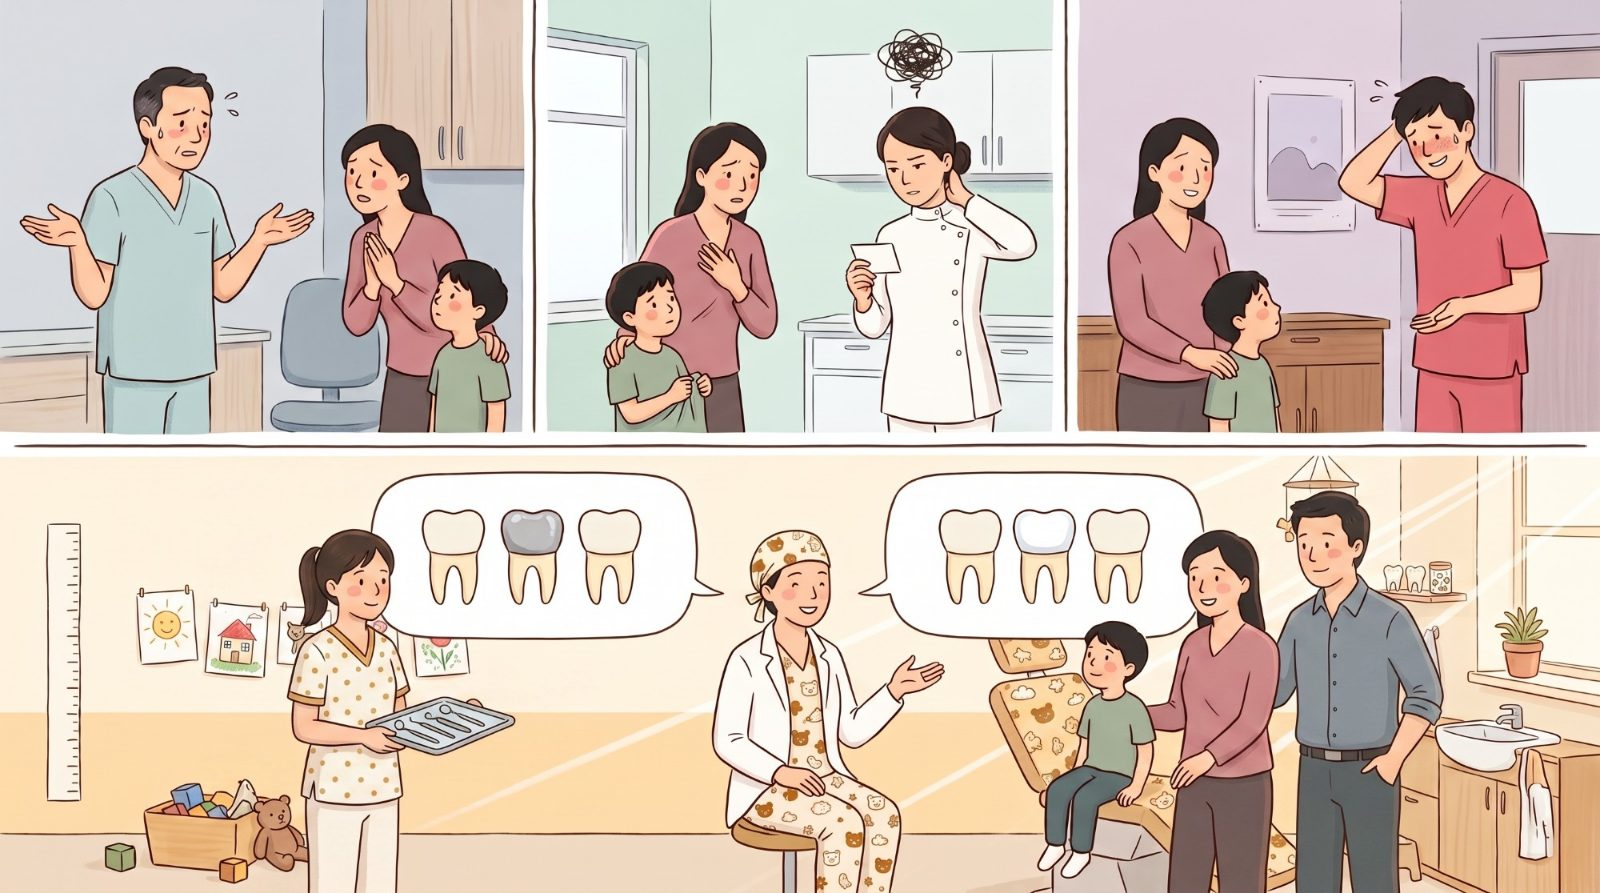
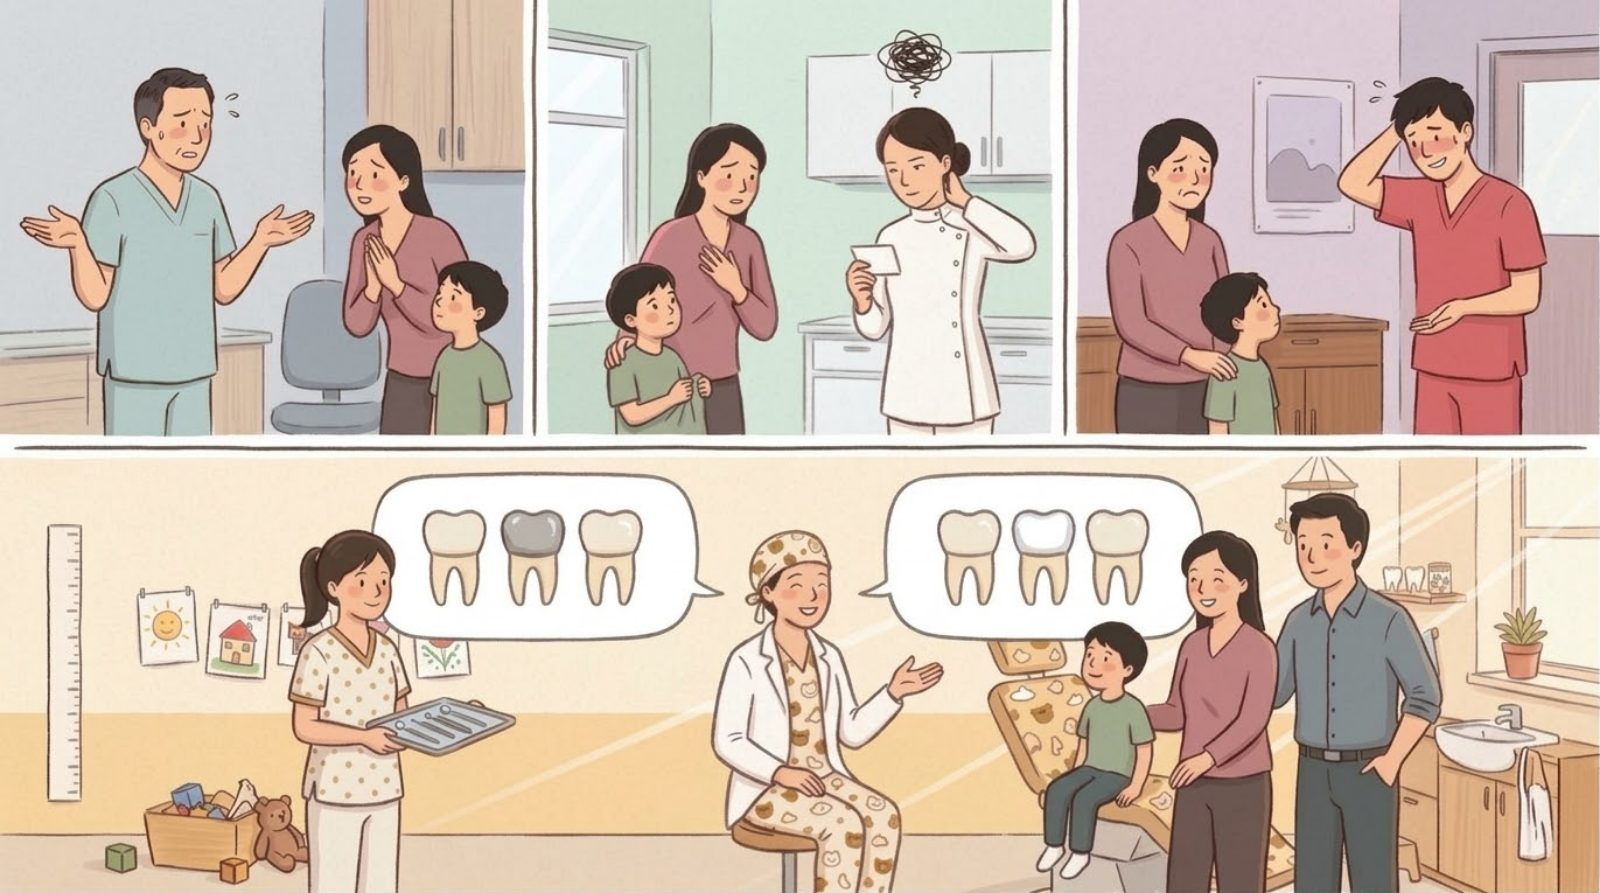
兒童牙套：HERO 換成第九版（多的那隻手與右上的表情都治好了）
第八版拿掉左上那格多出來的第三隻手，第九版把右上那位媽媽
從喜悅改回憂慮 —— 四張臉全對、手也沒有再多出來，一次過。

換圖那一次的兩件實務：
・出圖右邊 5px、下面 1px 有烘進去的白邊，hero-resize 的守門擋下來，
  新增一次性的 drafts/kids-crown/hero-crop.mjs 裁掉。
・那一支下面多裁 2 列，是為了讓長寬比正好回到 2000/1116，
  產出的三張才會和原本逐格相同（2000×1116／1600×893／800×446）——
  於是文章頁手寫的 width/height 與 og:image 尺寸都不必改，
  整站零 HTML 變動、沒有任何一篇的日期被換掉。

⚠ 原檔只有 1376×768，所以三張是放大出來的。日後拿得到
2000 寬以上的原檔，重跑兩行指令就會換掉。

推導在 drafts/kids-crown/HERO-PROMPTS.md，
上線之後的三件補記在 /history/kids-crown.html 第七節。

Claude-Session: https://claude.ai/code/session_014MyWknWjEDVJGqCXZ91TMJ

diff --git a/history/kids-crown.html b/history/kids-crown.html
@@ -194,6 +194,40 @@ V 領與口袋滾同色細邊；只有點，沒有熊雞雲星花；<b>絕對不
       它的「最後更新」會跳成今天）。</li>
 </ul>
 
+<h2>七、上線之後又改了三件（2026-09-07）</h2>
+<ol>
+  <li><b>卡片摘要是第一版的，錯了兩處</b>（使用者：「文章圖卡的預覽文字好像不是內文」）。
+      <code>post-meta</code> 的 <code>excerpt</code> 一路留到上線那天沒跟著內文走：
+      「真正的原因通常在別的地方」<b>和定稿的開場「可能說對了一半」互相矛盾</b>——
+      內文那個事實錯誤已經改掉，卡片上還活著；
+      「要換的往往不是材料，是做法」則是<b>豪氏牙套那一版的殘留</b>（豪氏＝做法），
+      那一節拿掉之後這篇比的正是兩種材料，方向反了。
+      <code>excerpt</code>／<code>description</code>／<code>og:description</code> 三處一起改。
+      ⚠⚠ <b>通則：文章改到剩下一半的時候，<code>post-meta</code> 那三段摘要不會自己跟著改，
+      而它們就印在首頁卡上</b>——定稿之後要把摘要逐句對一次定稿的開場。</li>
+  <li><b>HERO 第八版：左上那格小孩肩膀上多一隻手</b>（不屬於畫面上任何一個人——
+      那一格媽媽的兩隻手已經合在自己胸前）。成因是「一隻手扶著小孩的肩膀」在提示詞裡
+      四格寫了三次，模型把它當成這個角色的屬性，第一格也照畫。</li>
+  <li><b>HERO 第九版：右上那格的媽媽變成喜悅的。</b> 成因寫在第八版的提示詞裡——
+      表情那張清單降級成「只是讓你核對」，裡面卻還留著整段唯一一句大寫的
+      <code>THE FOURTH FACE MUST READ AS A WOMAN WHO IS SMILING</code>。
+      ⚠⚠⚠ 同一個角色連著兩輪出事而且<b>方向相反</b>（第七版憂慮往下串、第八版微笑往上串），
+      兩次都是<b>份量最重的那一項蓋掉其他三項</b>。第九版一次過。
+      通則寫在 <code>ILLUSTRATION.md</code> 第十七節。</li>
+</ol>
+
+<p>⚠ 換圖那一次的兩個實務點：<b>第九版的出圖右邊有 5px、下面有 1px 烘進去的白邊</b>，
+  <code>tools/hero-resize.mjs</code> 的第一道守門擋下來了，先跑
+  <code>node drafts/kids-crown/hero-crop.mjs</code> 裁掉；
+  <b>那一支下面多裁 2 列</b>，是為了讓長寬比正好回到 2000/1116——
+  這樣產出的三張是 2000×1116／1600×893／800×446，<b>和原本那三張逐格相同</b>，
+  文章頁那個手寫的 <code>width</code>／<code>height</code> 與 <code>og:image</code> 的尺寸一個字都不必改，
+  換圖那一次<b>整站零 HTML 變動</b>（<code>build.mjs</code> 沒有把任何一篇的日期換掉）。</p>
+
+<p>⚠ 原始出圖只有 <b>1376×768</b>（前幾版是 2000×1116），所以站上那三張是從它放大出來的
+  ——2000 那張放大 1.46 倍、1600 那張 1.17 倍。<code>og:image</code> 指的正是 1600 那張。
+  日後若拿得到 2000 寬以上的原檔，重跑一次那兩行就會換掉。</p>
+
 <h2>六、還開著的</h2>
 <ul>
   <li><b>四件診所事實還沒問到，所以文章裡一個字都沒寫</b>：不鏽鋼與全鋯是健保還是自費、
@@ -211,7 +245,7 @@ V 領與口袋滾同色細邊；只有點，沒有熊雞雲星花；<b>絕對不
 <footer>
   完整的提案頁留在 git：<br>
   <code>git show HEAD~1:preview/kids-crown/index.html</code><br>
-  逐版的提示詞與七張出圖：<code>drafts/kids-crown/HERO-PROMPTS.md</code>、<code>drafts/kids-crown/hero-v{1..6}.jpg</code>
+  逐版的提示詞與七張出圖：<code>drafts/kids-crown/HERO-PROMPTS.md</code>、<code>drafts/kids-crown/hero-v{1..9}.jpg</code>
 </footer>
 
 </div></body>

diff --git a/drafts/kids-crown/HERO-PROMPTS.md b/drafts/kids-crown/HERO-PROMPTS.md
@@ -1259,3 +1259,36 @@ marks in the bottom band; a whole tooth coloured grey or white including its roo
 photorealism; a portrait-like face; grey-scale; a frame around the whole image; blood; an
 anatomical or textbook-style diagram.
 ```
+
+---
+
+## ✅ 第九版一次過，2026-09-07 換上站
+
+出圖存在 `drafts/kids-crown/hero-v9.jpg`（1376×768）。
+使用者：「成功了　把站上的圖片換成這張」。**四張臉全對、手也沒有再多出來。**
+
+**「四行等重 ＋ 對稱的自我檢查 ＋ 正確的那幾格錨在參考圖上」這一組是有效的** ——
+第七、八版各串一次，第九版一次過。
+
+### 換圖那一次的兩件實務
+
+1. **出圖右邊有 5px、下面有 1px 烘進去的白邊**，`tools/hero-resize.mjs`
+   的第一道守門擋下來（ILLUSTRATION.md 第七節第 6 條）。
+   新寫了一支一次性的 `drafts/kids-crown/hero-crop.mjs` 裁掉。
+2. ⚠⚠ **那一支下面多裁 2 列（1371×765）是刻意的** ——
+   為了讓長寬比正好回到 **2000/1116**，產出的三張才會是
+   2000×1116／1600×893／800×446，**和原本那三張逐格相同**。
+   於是文章頁那個手寫的 `width`／`height`、`og:image:width/height`
+   全都不必改，**換圖那一次整站零 HTML 變動、沒有任何一篇的日期被換掉**。
+   > **⚠ 通則：換 HERO 的圖時，先算「裁成幾乘幾會讓輸出的三張和舊的一模一樣」。**
+   > 差一個像素，文章的 `<main>` 就變了，那一篇的 `updated` 會跳成今天。
+
+```bash
+node drafts/kids-crown/hero-crop.mjs drafts/kids-crown/hero-v9.jpg /tmp/h.png
+node tools/hero-resize.mjs /tmp/h.png kids-crown-photo
+node tools/build.mjs
+```
+
+⚠ **原檔只有 1376×768**（前幾版是 2000×1116），所以站上那三張是放大出來的
+（2000 那張 ×1.46、1600 那張 ×1.17，而 `og:image` 指的正是 1600 那張）。
+日後拿得到 2000 寬以上的原檔，重跑上面那兩行就換掉了。
